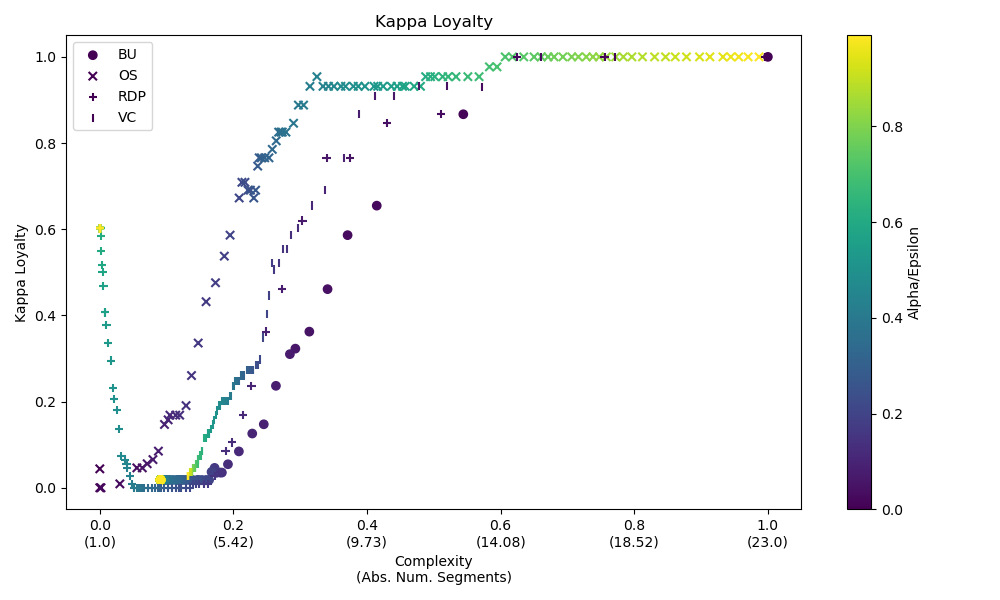
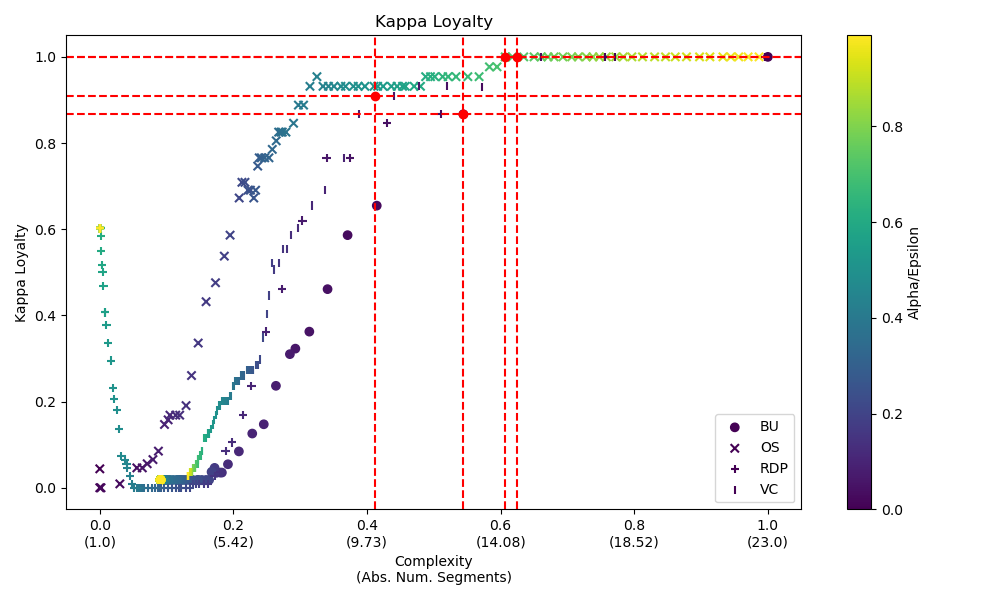
knee of the curve is obtained for each curve. This is saved in results and also in the kappa plots.

diff --git a/main.py b/main.py
@@ -1,20 +1,20 @@
 import logging
 from evaluation import score_different_alphas
 from Utils.plotting import plot_csv_complexity_kappa_loyalty, plot_csv_alpha_mean_loyalty, plot_csv_complexity_mean_loyalty
-from Utils.metrics import auc
+from Utils.metrics import auc, find_knee_curve
 import argparse
 import os
 from train_models import train_model, save_model
 import pandas as pd
 
 
-def save_plots(dataset: str, model_type: str):
+def save_plots(dataset: str, model_type: str, knee: dict = None):
     if os.path.exists(f"results/{dataset}/{model_type}_alpha_complexity_loyalty.csv"):
         output_file = f"results/{dataset}/{model_type}_alpha_complexity_loyalty.csv"
         fig1 = plot_csv_alpha_mean_loyalty(output_file)
         fig1.savefig(f"results/{dataset}/{model_type}_alpha_mean_loyalty.png")
 
-        fig2 = plot_csv_complexity_kappa_loyalty(output_file)
+        fig2 = plot_csv_complexity_kappa_loyalty(output_file, knee)
         fig2.savefig(f"results/{dataset}/{model_type}_complexity_kappa_loyalty.png")
 
         fig3 = plot_csv_complexity_mean_loyalty(output_file)
@@ -22,7 +22,7 @@ def save_plots(dataset: str, model_type: str):
     else:
         logging.error("Results not saved to CSV.")
 
-def update_results(dataset_name:str, datset_type:str, model_path:str, time:dict, auc:dict):
+def update_results(dataset_name:str, datset_type:str, model_path:str, time:dict, auc:dict, knee:dict):
     results_df = pd.read_csv(f"results/results.csv", header=0)
 
     simp_alg = ["OS", "RDP", "VC", "BU"]
@@ -32,7 +32,7 @@ def update_results(dataset_name:str, datset_type:str, model_path:str, time:dict,
             df_index = results_df.query(f"dataset == '{dataset_name + datset_type}' & model == '{model_path.split('/')[-1]}' & simp_algorithm == '{alg}'").copy().index
             results_df = results_df.drop(index=df_index)
 
-        results_df.loc[len(results_df)] = [dataset_name + datset_type, model_path.split("/")[-1], alg, auc[alg], time[alg]]
+        results_df.loc[len(results_df)] = [dataset_name + datset_type, model_path.split("/")[-1], alg, auc[alg], str(knee[alg]), time[alg]]
 
     results_df.to_csv(f"results/results.csv", index=False)
 
@@ -80,13 +80,21 @@ def main(dataset: str, dataset_type: str, model_type: str):
             save_model(model, model_path, model_type)
 
     df, time_dict = score_different_alphas(dataset, datset_type=dataset_type, model_path=model_path)
-    auc_dict = auc(df)
-    
-    update_results(dataset, dataset_type, model_path, time_dict, auc_dict)
-
     df.to_csv(f"results/{dataset}/{model_type}_alpha_complexity_loyalty.csv", index=False)
 
-    save_plots(dataset, model_type)
+    auc_dict, filtered_curves = auc(df)
+
+    knees = {}
+    for simp_alg in filtered_curves.keys():
+        filtered_curve = filtered_curves[simp_alg]
+        filtered_complexity = filtered_curve[0]
+        filtered_kappa_loyalty = filtered_curve[1]
+        knee = find_knee_curve(filtered_complexity, filtered_kappa_loyalty)
+        knees[simp_alg] = knee
+    
+    update_results(dataset, dataset_type, model_path, time_dict, auc_dict, knees)
+
+    save_plots(dataset, model_type, knees)
 
 
 if __name__ == "__main__":

diff --git a/Utils/metrics.py b/Utils/metrics.py
@@ -3,6 +3,7 @@ from matplotlib import pyplot as plt
 from sklearn.metrics import cohen_kappa_score
 from typing import List
 import pandas as pd
+from kneed import KneeLocator
 
 from Utils.dataTypes import SegmentedTS 
 
@@ -36,7 +37,7 @@ def calculate_complexity(batch_simplified_ts: List[SegmentedTS])->float:
     complexity = np.mean([score_simplicity(ts) for ts in batch_simplified_ts])
     return complexity
 
-def auc(df: pd.DataFrame, metric:str="Kappa Loyalty", show_fig:bool=False) -> dict[str, float]:
+def auc(df: pd.DataFrame, metric:str="Kappa Loyalty", show_fig:bool=False) -> tuple[dict[str, float], dict[str,tuple[List, List]]]:
     """
     Calculate the Area Under the Curve of the Complexity vs Loyalty curve for each simplification algorithm.
     This is used to compare the performance of the different simplification algorithms.
@@ -45,6 +46,7 @@ def auc(df: pd.DataFrame, metric:str="Kappa Loyalty", show_fig:bool=False) -> di
 
     algorithms = df["Type"].unique()
     auc = {}
+    filtered_curves = {}
     for algorithm in algorithms:
         complexity = df["Complexity"].copy().where(df["Type"] == algorithm).dropna().to_list()
         loyalty = df[metric].copy().where(df["Type"] == algorithm).dropna().to_list()
@@ -62,8 +64,9 @@ def auc(df: pd.DataFrame, metric:str="Kappa Loyalty", show_fig:bool=False) -> di
             plt.show()
 
         auc[algorithm] = np.trapz(filtered_loyalty, filtered_complexity)
+        filtered_curves[algorithm] = (filtered_complexity, filtered_loyalty)
 
-    return auc
+    return auc, filtered_curves
     
 
 def filter_anomalous_loyalty_curve(x_values: List, y_values: List) -> tuple[List, List]:
@@ -86,10 +89,28 @@ def filter_anomalous_loyalty_curve(x_values: List, y_values: List) -> tuple[List
     return x[valid_idx:].tolist(), y[valid_idx:].tolist()
 
 
+def find_knee_curve(x_values: List, y_values: List) -> tuple[float, float]:
+    """
+    Find the knee point of the curve using the Kneedle algorithm from "Finding a “Kneedle” in a Haystack:Detecting Knee Points in System Behavior"
+    https://github.com/arvkevi/kneed?tab=readme-ov-file#input-data
+    """
+    x = np.array(x_values)
+    y = np.array(y_values)
+    kneedle = KneeLocator(x, y, S=1.0, curve='concave', direction='increasing', online=True)
+    knee_x = kneedle.knee
+    knee_y = kneedle.knee_y
+    return knee_x, knee_y
+
+
 if __name__ == '__main__':
     #dataset = "Chinatown"
     dataset = "ItalyPowerDemand"
     models = ["cnn", "decision-tree", "logistic-regression", "knn"]
     for model in models:
         df = pd.read_csv(f"results/{dataset}/{model}_alpha_complexity_loyalty.csv")
-        print(auc(df, show_fig=True))
+        auc_value, filtered_tuple = auc(df, show_fig=False)
+        knee_point = find_knee_curve(filtered_tuple[0], filtered_tuple[1])
+        # Plot the filtered curve with the knee point
+        plt.plot(filtered_tuple[0], filtered_tuple[1])
+        plt.scatter(knee_point[0], knee_point[1], color='red')
+        plt.show()

diff --git a/Utils/plotting.py b/Utils/plotting.py
@@ -68,7 +68,7 @@ def plot_csv_complexity_mean_loyalty(file:str) -> plt.Figure:
     
     return fig
 
-def plot_csv_complexity_kappa_loyalty(file:str) -> plt.Figure:
+def plot_csv_complexity_kappa_loyalty(file:str, points:dict=None) -> plt.Figure:
     df = pd.read_csv(file)
     representation_type = ["o", "x", '+', "|"]
     fig, ax = plt.subplots(figsize=(10, 6))
@@ -77,6 +77,13 @@ def plot_csv_complexity_kappa_loyalty(file:str) -> plt.Figure:
         scatter = ax.scatter(group["Complexity"], group["Kappa Loyalty"], 
                             label=name, c=group['Alpha'], cmap='viridis', 
                             marker=representation_type[i])
+        
+        if points is not None:
+            point_x = float(points[name][0])
+            point_y = float(points[name][1])
+            ax.scatter(point_x, point_y, color='red', marker=representation_type[i])
+            ax.axhline(y=point_y, color='red', linestyle='--', alpha=0.4)
+            ax.axvline(x=point_x, color='red', linestyle='--', alpha=0.4)
     
     ax.set_title(f"Kappa Loyalty")
     ax.set_xlabel("Complexity\n(Abs. Num. Segments)")
@@ -96,7 +103,7 @@ def plot_csv_complexity_kappa_loyalty(file:str) -> plt.Figure:
     
     ax.set_xticks(complexity_ticks)
     ax.set_xticklabels(labels)
-    
+
     ax.legend()
     cbar = plt.colorbar(scatter, ax=ax)
     cbar.set_label('Alpha/Epsilon')
